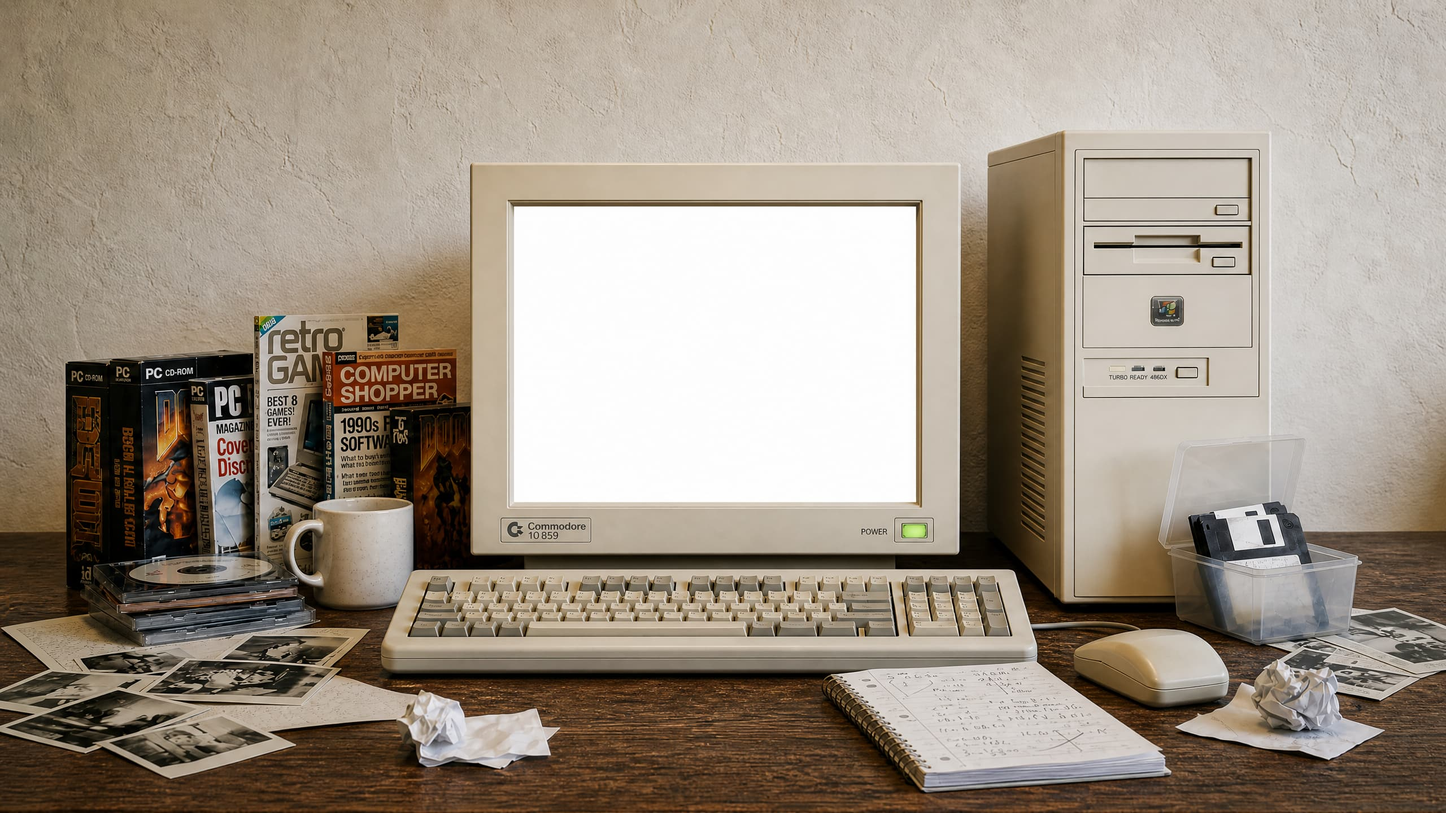
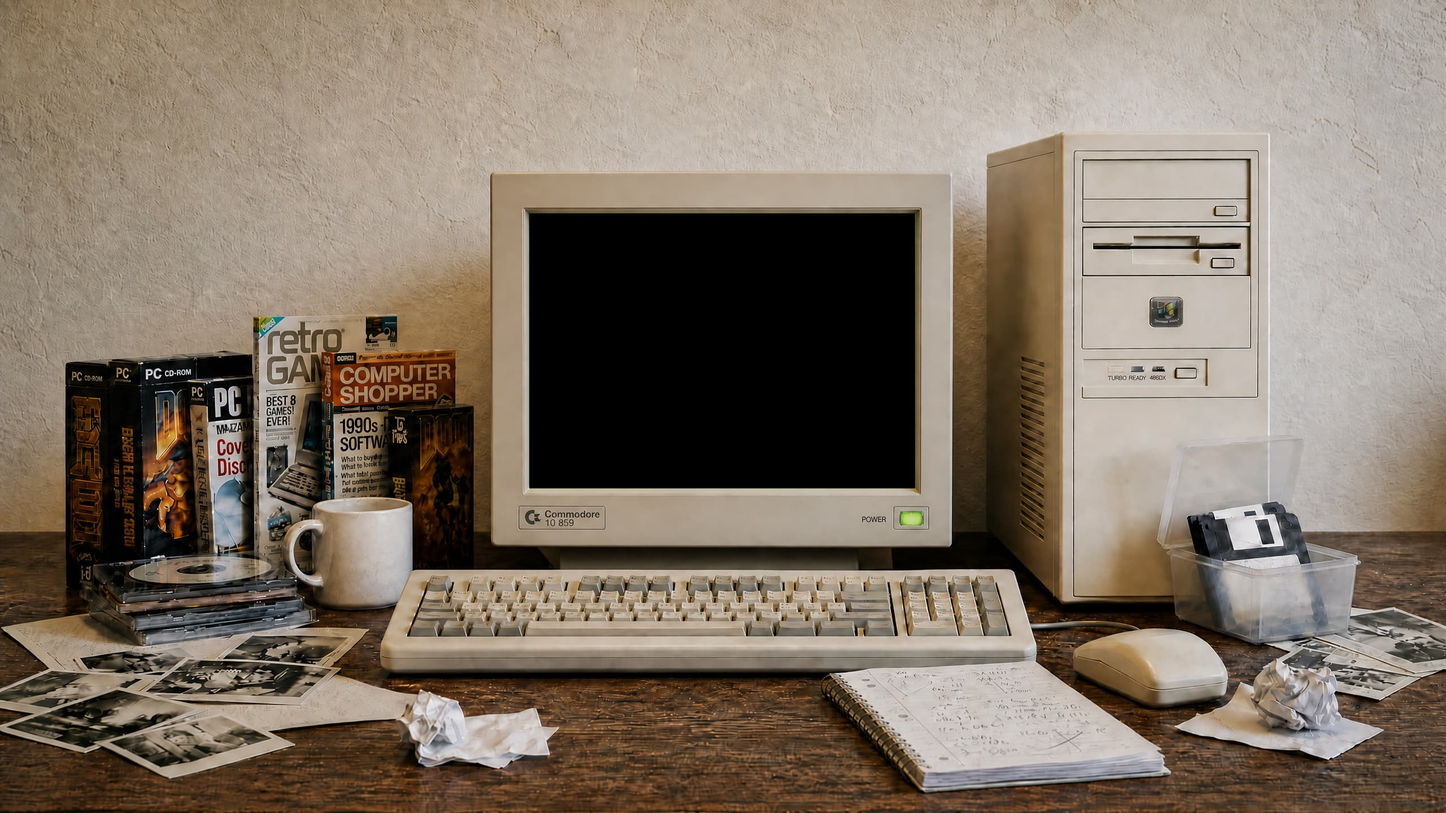
1

diff --git a/css/crt-terminal.css b/css/crt-terminal.css
@@ -21,11 +21,12 @@ body {
 #crt-screen {
     position: fixed;
     /* 基于 2560x1440 图片居中，计算屏幕绝对位置 */
-    top: calc(50vh - 465px + 109px);   /* 视口中心 - 图片半高 + 屏幕top偏移 */
-    left: calc(50vw - 1085px + 714px); /* 视口中心 - 图片半宽 + 屏幕left偏移 */
-    width: 714px;   /* 你调整好的宽度 */
-    height: 526px;  /* 你调整好的高度 */
+    top: calc(50vh - 465px + 122px);   /* 视口中心 - 图片半高 + 屏幕top偏移 */
+    left: calc(50vw - 1085px + 740px); /* 视口中心 - 图片半宽 + 屏幕left偏移 */
+    width: 687px;   /* 你调整好的宽度 */
+    height: 490px;  /* 你调整好的高度 */
     
+    /* background: #0a0a; */
     background: #0a0a0a;
     overflow: hidden;
     border-radius: 3px;
